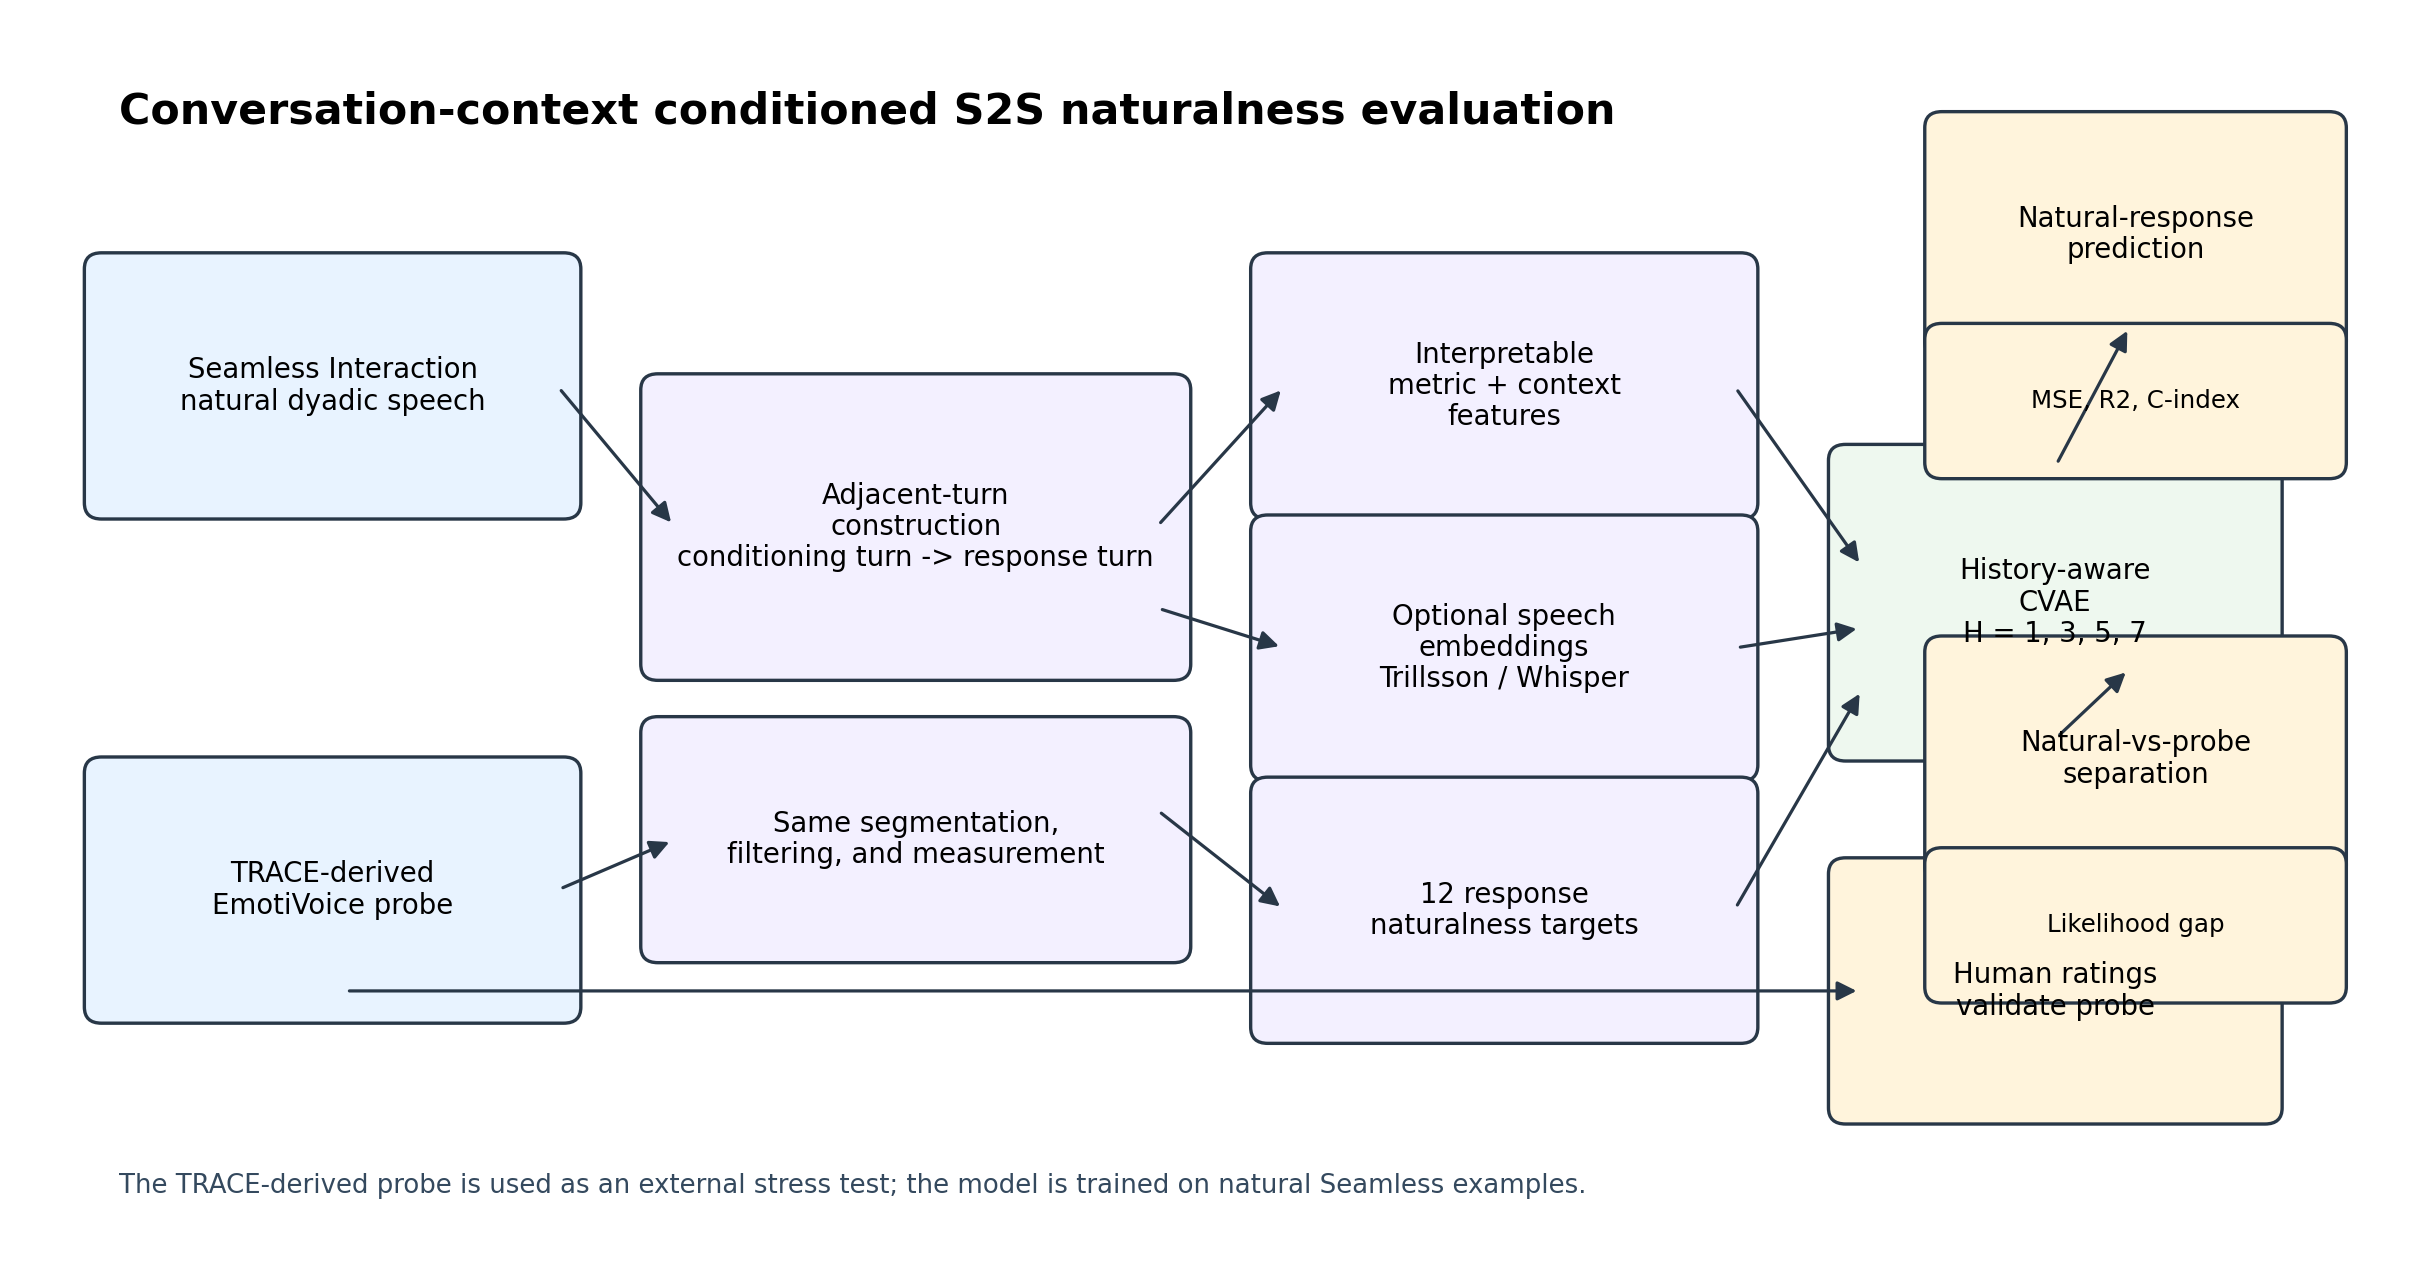
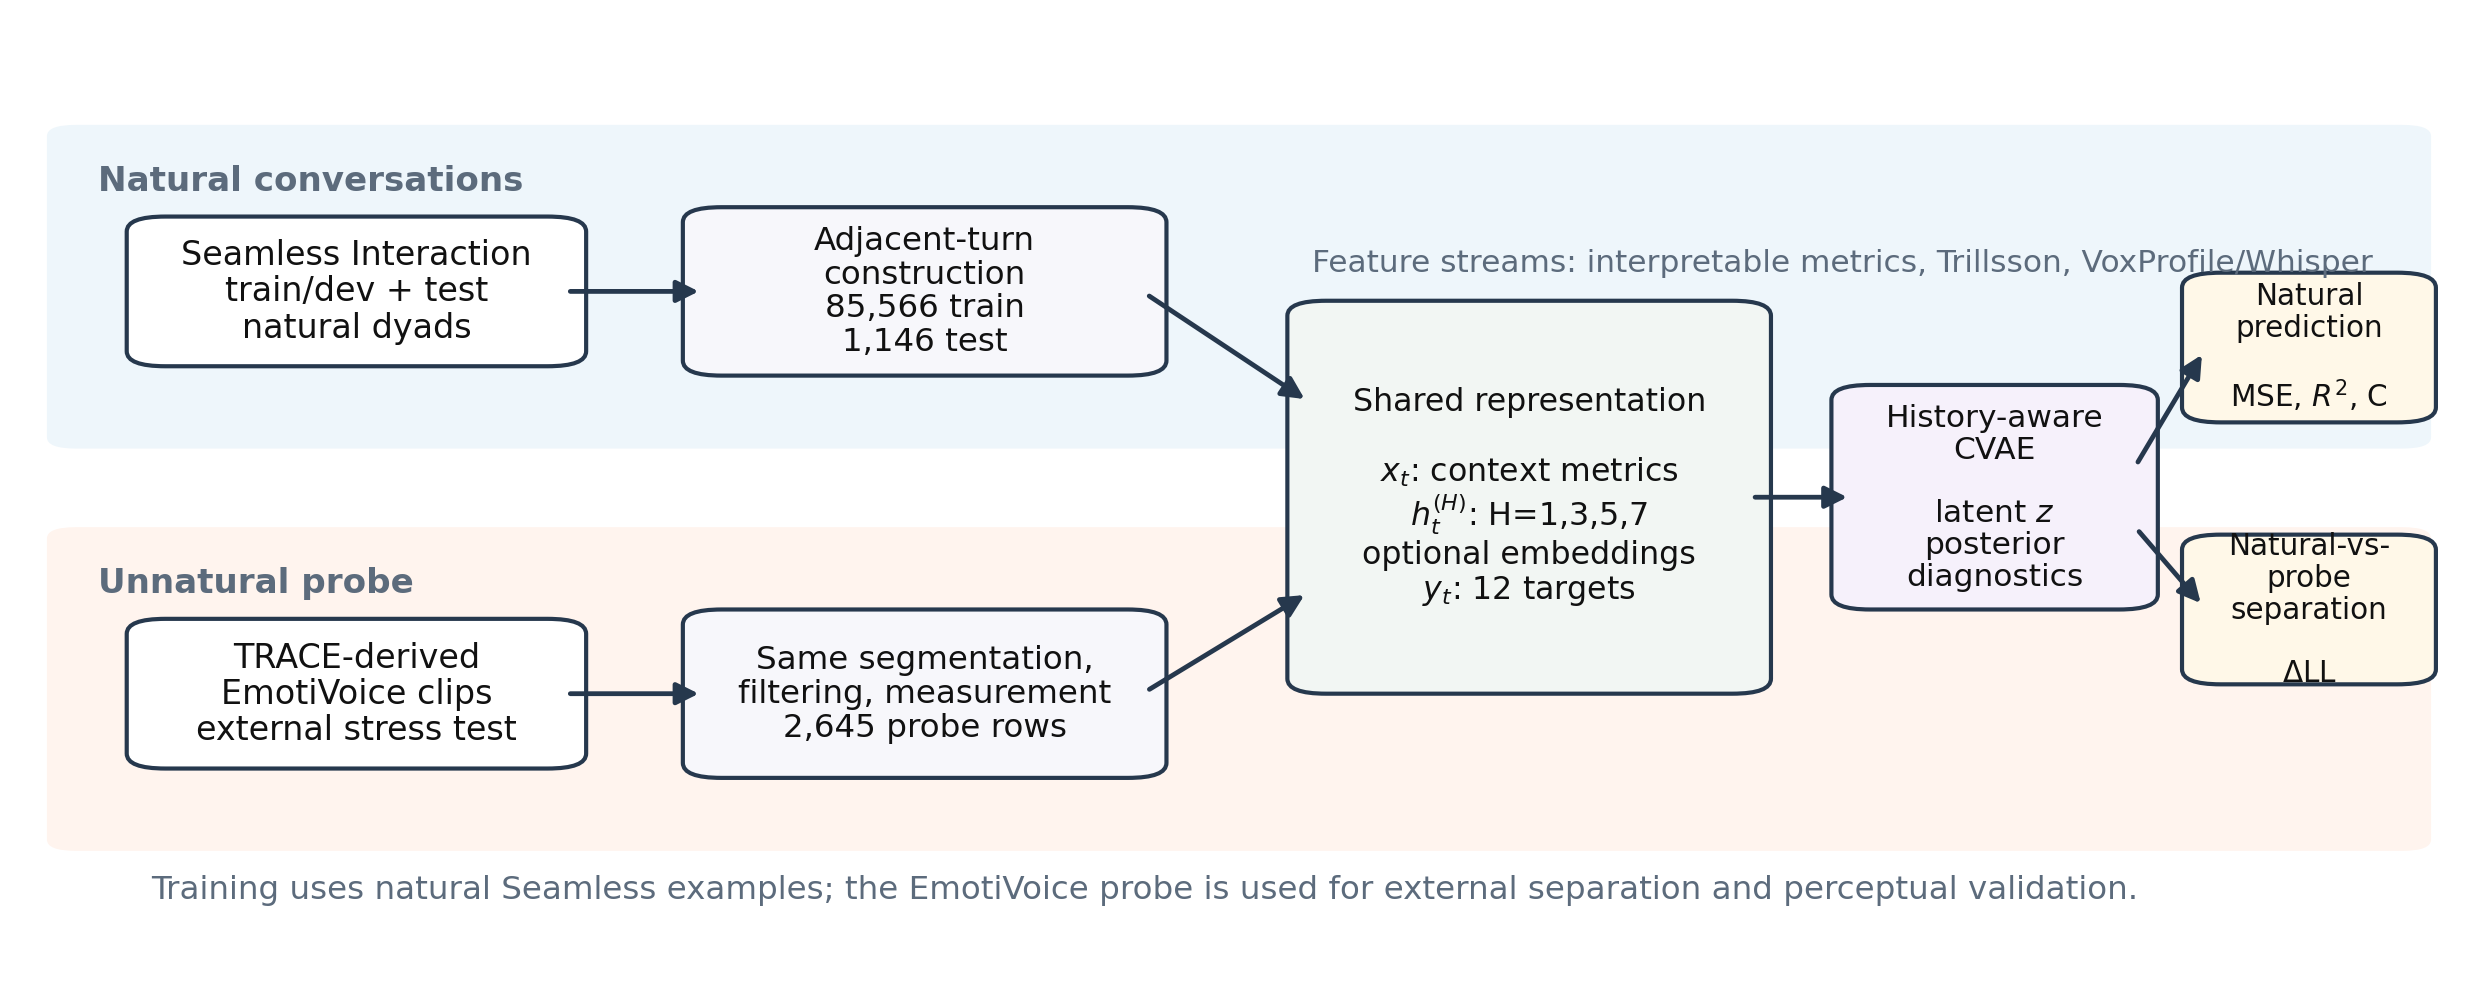
Diagrams updated

diff --git a/SLT_Paper/Main.tex b/SLT_Paper/Main.tex
@@ -32,11 +32,11 @@ Speech-to-speech (S2S) systems can produce fluent spoken responses, but fluency 
 A response may be intelligible and semantically appropriate while sounding atypical in duration, rhythm, pausing, pitch variation, or affect for the conversation that preceded it.
 We present a conversation-context conditioned evaluator that learns distributions over response-side speech measurements from natural dyadic interaction.
 Each example is an adjacent-turn pair: a preceding turn from one speaker is used as context, and the next cross-speaker turn supplies the response measurements to be modeled.
-Building on DISTRIB's reference-based prosody and rhythm checks, we replace static matched ranges with learned conditional distributions over 12 naturalness-relevant response metrics.
-We train history-aware CVAE models on 85,566 natural Seamless Interaction examples and test on 1,146 held-out natural examples, while using a TRACE-derived EmotiVoice set as an external unnatural probe.
-Across 16 history and embedding conditions, the best natural-response predictor uses only interpretable metric and context features with a five-turn history (MSE 0.0250, $R^2=0.9748$).
-The strongest natural-vs-EmotiVoice separation is obtained with VoxProfile/Whisper embeddings and a seven-turn history ($\Delta$LL 1.556), while three embedding-aware conditions form the top balanced tier.
-A 10-listener study further confirms that TRACE-derived EmotiVoice clips are perceived as less natural than natural/reference clips (2.73 vs. 4.49 MOS), supporting their use as an external unnaturalness probe.
+Building on prior reference-based prosody and rhythm evaluation for spoken dialogue systems \cite{DISTRIB}, we replace static matched ranges with learned conditional distributions over naturalness-relevant response metrics.
+We train history-aware CVAE models on natural Seamless Interaction examples and evaluate them on held-out natural conversations and a TRACE-derived EmotiVoice probe, where TRACE is a temporal relationship-aware conversational entrainment study \cite{TRACE}.
+The experiments show a tradeoff between accurately predicting natural response measurements and separating natural responses from synthetic unnatural probes.
+Interpretable metric and context features are strongest for held-out natural prediction, while learned speech embeddings provide complementary signal for natural-vs-probe separation.
+A listener study further supports the EmotiVoice condition as a perceptually less natural external probe.
 \end{abstract}
 
 \begin{IEEEkeywords}
@@ -50,7 +50,7 @@ S2S systems are increasingly able to generate fluent speech, but generated turns
 For example, a response may begin after an unusual delay, compress pitch variation in an expressive exchange, speak at an implausible rate, or use affective cues that do not match the preceding turn.
 Text-based metrics, task success, and global listener ratings remain useful, but they often do not identify which speech-native dimensions make an output sound unnatural \cite{omahony_combining_2022}.
 
-DISTRIB introduced a reference-based evaluation view: extract prosodic and rhythmic measurements from an S2S output, compare them with matched human conversational regimes, and report interpretable deviations rather than a single opaque score \cite{DISTRIB}.
+Prior work on reference-based prosody and rhythm evaluation for spoken dialogue systems introduced a complementary view: extract prosodic and rhythmic measurements from an S2S output, compare them with matched human conversational regimes, and report interpretable deviations rather than a single opaque score \cite{DISTRIB}.
 That approach is intentionally simple, but it treats reference regimes as static tables.
 The present paper asks a complementary question: can we learn a conditional distribution over response behavior from the immediately preceding turn and recent dialogue history?
 Instead of asking whether an output falls inside a broad matched percentile range, we ask whether its response measurements are likely under a distribution expected for this particular conversational context.
@@ -87,12 +87,11 @@ Prosodic variation, especially fundamental-frequency ($F_0$) range and variabili
 Temporal organization also matters: speaking rate, articulation rate, and pausing shape perceived tempo and turn-taking behavior \cite{tauroza_speech_1990, goldman1958speech, campione2002large, pellegrino_automatic_2004, jiao_estimating_2015, morgan_combining_1998}.
 Because these behaviors vary with interactional state, a naturalness evaluator should compare a response with expectations for its local conversation, not with a single global baseline \cite{fusaroli_dialog_2014, wynn_conversational_2024}.
 
-\subsection{Distributional Modeling and Speech Embeddings}
-A single preceding turn can allow many natural responses.
-A useful evaluator should therefore represent a distribution over plausible response behaviors rather than only a point prediction.
-Conditional variational autoencoders (CVAEs) provide a standard way to model output variability under observed context using a latent variable \cite{kingma2013vae, sohn2015cvae}.
-Interpretable speech metrics offer transparency, but they may not capture all acoustic or paralinguistic information available in the conditioning turn.
-We therefore compare models that use only interpretable metric and context features with models that also use two learned speech representations: 1,024-dimensional Trillsson embeddings for non-semantic speech information \cite{shor2022trillsson}, and a 1,280-dimensional VoxProfile/Whisper stream derived from Whisper representations \cite{radford2023whisper, feng2025vox}.
+\subsection{Conditional Modeling and Speech Representations}
+A single preceding turn can allow many natural responses, so probabilistic conditional models are a natural fit for response-behavior evaluation.
+Conditional variational autoencoders (CVAEs) are a standard latent-variable approach for modeling output variability under observed context \cite{kingma2013vae, sohn2015cvae}.
+In parallel, learned speech representations have become useful for capturing non-semantic acoustic and paralinguistic information that may not be explicit in manually defined measurements.
+Relevant examples include Trillsson embeddings for non-semantic speech representation \cite{shor2022trillsson}, Whisper representations for robust acoustic-language modeling \cite{radford2023whisper}, and VoxProfile features for speaker and affective speech analysis \cite{feng2025vox}.
 
 \section{Data and Measurements}
 \subsection{Terms Used in This Paper}
@@ -114,7 +113,7 @@ Conditioning turn & The preceding speech segment used as context for evaluation;
 History window $H$ & The number of earlier turns from the same interaction made available to the model. \\
 Interpretable features & Measured speech, timing, affect, and interaction-context variables with direct diagnostic meaning. \\
 Embedding-augmented condition & A model that adds Trillsson, VoxProfile/Whisper, or both embedding streams to the interpretable features. \\
-TRACE-derived probe & EmotiVoice-based synthetic or voice-converted dyadic clips from TRACE, reused here as an external unnaturalness stress test. \\
+TRACE-derived probe & EmotiVoice-based synthetic or voice-converted dyadic clips from a temporal relationship-aware conversational entrainment study, reused here as an external unnaturalness stress test. \\
 \bottomrule
 \end{tabular}
 \end{table}
@@ -130,11 +129,11 @@ The refined experiments use the source dataset partitions directly: Seamless tra
 After filtering and embedding alignment, the reported experiments contain 85,566 natural training examples and 1,146 held-out natural examples.
 
 \subsection{TRACE-Derived EmotiVoice Probe}
-To test whether models trained on natural responses assign lower likelihood to unnatural speech, we use the EmotiVoice-derived conditions from TRACE as an external probe \cite{TRACE}.
-TRACE constructs synthetic and voice-converted dyadic clips that are intended to disrupt natural conversational entrainment.
-Here, we do not treat TRACE as a general benchmark dataset; we use its corresponding row directories as a deliberately unnatural stress test.
+To test whether models trained on natural responses assign lower likelihood to unnatural speech, we use EmotiVoice-derived conditions from TRACE, a temporal relationship-aware conversational entrainment study, as an external probe \cite{TRACE}.
+That study constructs synthetic and voice-converted dyadic clips that are intended to disrupt natural conversational entrainment.
+Here, we do not treat this material as a general benchmark dataset; we use its aligned EmotiVoice examples as a deliberately unnatural stress test.
 The same adjacent-turn construction and measurement pipeline is applied, producing examples with the same fields as the natural Seamless examples.
-The raw TRACE-derived table contains 3,731 candidate rows; 2,645 remain after filtering and embedding alignment.
+The raw probe table contains 3,731 candidate rows; 2,645 remain after filtering and embedding alignment.
 
 \begin{table}[t]
 \centering
@@ -158,7 +157,7 @@ VoxProfile/Whisper stream & conditioning-turn embedding & 1,280 \\
 \end{table}
 
 \subsection{Response Target Metrics}
-The response space reported in this paper contains 12 naturalness-relevant measurements inherited from DISTRIB's speech-native prosody and rhythm family and extended with dimensional affect estimates \cite{DISTRIB}.
+The response space reported in this paper contains 12 naturalness-relevant measurements adapted from reference-based prosody and rhythm evaluation for spoken dialogue systems and extended with dimensional affect estimates \cite{DISTRIB}.
 Table~\ref{tab:target_metrics} defines each target and explains why it is relevant to S2S naturalness.
 We intentionally exclude automatic-analysis outputs that are not response-naturalness targets for S2S agents, including demographic-style estimates and analysis-coverage variables.
 Those quantities may be useful for quality control or exploratory analysis, but they should not determine whether a synthetic response is considered conversationally natural.
@@ -201,10 +200,15 @@ The model never conditions on the current response measurements when scoring tha
 The history vector $h_t^{(H)}$ is a padded sequence of up to $H$ earlier turns from the same interaction, ordered from oldest to newest.
 Each history item contains the earlier turn's interpretable features, optional embeddings, and the earlier response measurements that would already be observable in a multi-turn interaction.
 
+\subsection{Modeling Rationale}
+The model needs to represent a range of plausible response behaviors rather than a single canonical response, because many timing, prosodic, and affective patterns can be natural in the same conversation context.
+We therefore use a CVAE to model residual response variability with a latent variable while conditioning on the current turn and recent interaction history.
+We compare interpretable-only and embedding-augmented conditions because the former are easier to diagnose, while learned speech embeddings may retain acoustic or paralinguistic information that is not captured by the 12 response metrics.
+
 \begin{figure*}[t]
 \centering
 \includegraphics[width=0.95\textwidth]{figures/pipeline_schematic.pdf}
-\caption{Evaluation pipeline. Natural Seamless conversations and TRACE-derived EmotiVoice probes are converted into adjacent-turn examples. Interpretable speech/context features and optional conditioning-turn embeddings feed a history-aware CVAE, whose outputs support natural-response prediction, natural-vs-unnatural likelihood gaps, and per-feature diagnostics.}
+\caption{Two-lane study design. Natural Seamless conversations provide the training and held-out natural evaluation examples, while the TRACE-derived EmotiVoice probe passes through the same adjacent-turn and measurement pipeline as an external unnaturalness stress test. The shared feature representation combines interpretable context features, optional conditioning-turn embeddings, 12 response targets, and a history window before the history-aware CVAE is evaluated on prediction and separation axes.}
 \label{fig:pipeline}
 \end{figure*}
 
@@ -251,7 +255,7 @@ A deployable evaluator should sample from $p(z)$ using only the conditioning tur
 \section{Results}
 \subsection{Clean 12-Target Sweep}
 Table~\ref{tab:clean_sweep} reports all aggregate results over the 12 naturalness targets in Table~\ref{tab:target_metrics}.
-The best natural-response predictor is the interpretable-only model with five previous turns, with MSE 0.0250 and $R^2=0.9748$.
+The best natural-response predictor is the interpretable-only model with five previous turns, with MSE 0.025 and $R^2=0.975$.
 This indicates that direct measurements of the preceding turn and recent interaction history are highly informative for predicting natural response behavior.
 However, the same model has a small natural-vs-EmotiVoice likelihood gap, showing that strong prediction of natural test examples is not the same as strong unnaturalness screening.
 
@@ -265,25 +269,25 @@ However, the same model has a small natural-vs-EmotiVoice likelihood gap, showin
 \toprule
 Condition & $H$ & MSE & $R^2$ & C-index & Nat. LL & $\Delta$LL & Bal. score \\
 \midrule
-Interpretable only & 1 & 0.0332 & 0.9673 & 0.9758 & 0.127 & 0.205 & 0.433 \\
-Interpretable only & 3 & 0.0339 & 0.9664 & 0.9756 & 0.237 & 0.306 & 0.367 \\
-\textbf{Interpretable only} & \textbf{5} & \textbf{0.0250} & \textbf{0.9748} & 0.9750 & \textbf{0.967} & 0.115 & 0.533 \\
-Interpretable only & 7 & 0.0297 & 0.9702 & 0.9755 & 0.790 & 0.153 & 0.433 \\
+Interpretable only & 1 & 0.033 & 0.967 & 0.976 & 0.127 & 0.205 & 0.433 \\
+Interpretable only & 3 & 0.034 & 0.966 & 0.976 & 0.237 & 0.306 & 0.367 \\
+\textbf{Interpretable only} & \textbf{5} & \textbf{0.025} & \textbf{0.975} & 0.975 & \textbf{0.967} & 0.115 & 0.533 \\
+Interpretable only & 7 & 0.030 & 0.970 & 0.976 & 0.790 & 0.153 & 0.433 \\
 \midrule
-\textbf{Trillsson} & \textbf{1} & 0.0284 & 0.9715 & \textbf{0.9810} & 0.407 & 1.263 & \textbf{0.800} \\
-Trillsson & 3 & 0.0336 & 0.9675 & 0.9792 & -0.264 & 0.472 & 0.500 \\
-Trillsson & 5 & 0.0400 & 0.9602 & 0.9782 & -1.235 & 0.092 & 0.067 \\
-Trillsson & 7 & 0.0413 & 0.9615 & 0.9760 & -0.644 & 0.205 & 0.133 \\
+\textbf{Trillsson} & \textbf{1} & 0.028 & 0.972 & \textbf{0.981} & 0.407 & 1.263 & \textbf{0.800} \\
+Trillsson & 3 & 0.034 & 0.968 & 0.979 & -0.264 & 0.472 & 0.500 \\
+Trillsson & 5 & 0.040 & 0.960 & 0.978 & -1.235 & 0.092 & 0.067 \\
+Trillsson & 7 & 0.041 & 0.962 & 0.976 & -0.644 & 0.205 & 0.133 \\
 \midrule
-VoxProfile/Whisper & 1 & 0.0399 & 0.9632 & 0.9793 & -0.007 & 0.496 & 0.400 \\
-\textbf{VoxProfile/Whisper} & \textbf{3} & 0.0275 & 0.9732 & 0.9800 & 0.523 & 1.096 & \textbf{0.800} \\
-VoxProfile/Whisper & 5 & 0.0348 & 0.9683 & 0.9780 & 0.504 & 0.924 & 0.500 \\
-\textbf{VoxProfile/Whisper} & \textbf{7} & 0.0414 & 0.9604 & 0.9785 & -0.811 & \textbf{1.556} & 0.500 \\
+VoxProfile/Whisper & 1 & 0.040 & 0.963 & 0.979 & -0.007 & 0.496 & 0.400 \\
+\textbf{VoxProfile/Whisper} & \textbf{3} & 0.028 & 0.973 & 0.980 & 0.523 & 1.096 & \textbf{0.800} \\
+VoxProfile/Whisper & 5 & 0.035 & 0.968 & 0.978 & 0.504 & 0.924 & 0.500 \\
+\textbf{VoxProfile/Whisper} & \textbf{7} & 0.041 & 0.960 & 0.979 & -0.811 & \textbf{1.556} & 0.500 \\
 \midrule
-Dual embedding & 1 & 0.0357 & 0.9654 & 0.9790 & -0.147 & 0.390 & 0.333 \\
-Dual embedding & 3 & 0.0261 & 0.9738 & 0.9782 & 0.413 & 0.405 & 0.700 \\
-Dual embedding & 5 & 0.0335 & 0.9672 & 0.9776 & 0.049 & 1.281 & 0.700 \\
-\textbf{Dual embedding} & \textbf{7} & 0.0303 & 0.9706 & 0.9789 & -0.226 & 1.451 & \textbf{0.800} \\
+Dual embedding & 1 & 0.036 & 0.965 & 0.979 & -0.147 & 0.390 & 0.333 \\
+Dual embedding & 3 & 0.026 & 0.974 & 0.978 & 0.413 & 0.405 & 0.700 \\
+Dual embedding & 5 & 0.034 & 0.967 & 0.978 & 0.049 & 1.281 & 0.700 \\
+\textbf{Dual embedding} & \textbf{7} & 0.030 & 0.971 & 0.979 & -0.226 & 1.451 & \textbf{0.800} \\
 \bottomrule
 \end{tabular}
 \end{table*}
@@ -297,7 +301,7 @@ These three conditions occupy different parts of the tradeoff surface, as shown 
 \begin{figure*}[t]
 \centering
 \includegraphics[width=0.95\textwidth]{figures/prediction_discrimination_scatter.pdf}
-\caption{Prediction-separation tradeoff over the clean 12-target evaluation. The best natural predictor is the interpretable-only $H=5$ model, while the strongest EmotiVoice separator is VoxProfile/Whisper $H=7$. Marker size is proportional to the balanced score.}
+\caption{Two views of the prediction-separation tradeoff. Panel A plots natural-test MSE against natural-minus-probe likelihood gap for all 16 conditions, labeling only the key models. Panel B compares normalized prediction and separation ranks for the best predictor, strongest separator, and balanced-tier models.}
 \label{fig:tradeoff}
 \end{figure*}
 
@@ -326,7 +330,7 @@ Affect & Interpretable-only $H=5$; dual embedding $H=3$ & Trillsson $H=1$; dual 
 \end{table*}
 
 \subsection{Human Perceptual Validation}
-The automatic separation results are strengthened by TRACE's listening study over mixed two-speaker clips \cite{TRACE}.
+The automatic separation results are strengthened by the listening study reported with TRACE over mixed two-speaker clips \cite{TRACE}.
 The study contains 75 non-foil clips and 200 target ratings from 10 listeners, plus 20 foil ratings used for quality control.
 Foils are excluded from Table~\ref{tab:human_eval}.
 Listeners rated overall naturalness, speaking-style dimensions, emotion flow, and signal quality on 1--5 scales, and ratings are averaged at the clip level before condition summaries are computed.
@@ -376,7 +380,7 @@ Finally, the listener study validates the external probe at the clip level; a fu
 
 \section{Conclusion}
 We presented a conversation-context conditioned framework for evaluating S2S response naturalness through distributions over interpretable speech measurements.
-The paper extends DISTRIB's reference-based prosody and rhythm checks from static matched regimes to learned conditional response distributions, and uses TRACE-derived EmotiVoice examples as an external unnaturalness probe.
+The paper extends reference-based prosody and rhythm evaluation for spoken dialogue systems from static matched regimes to learned conditional response distributions, and uses TRACE-derived EmotiVoice examples as an external unnaturalness probe \cite{DISTRIB,TRACE}.
 Using a 12-metric naturalness target space, interpretable metric and context features with a five-turn history give the best held-out natural prediction, while embedding-augmented models provide stronger natural-vs-EmotiVoice separation.
 Human ratings independently confirm that the EmotiVoice condition is perceived as less natural than natural/reference speech, especially in emotion flow and speaking style.
 Future work will convert the posterior diagnostic into a prior-predictive evaluator and directly validate per-item scores against listener judgments.